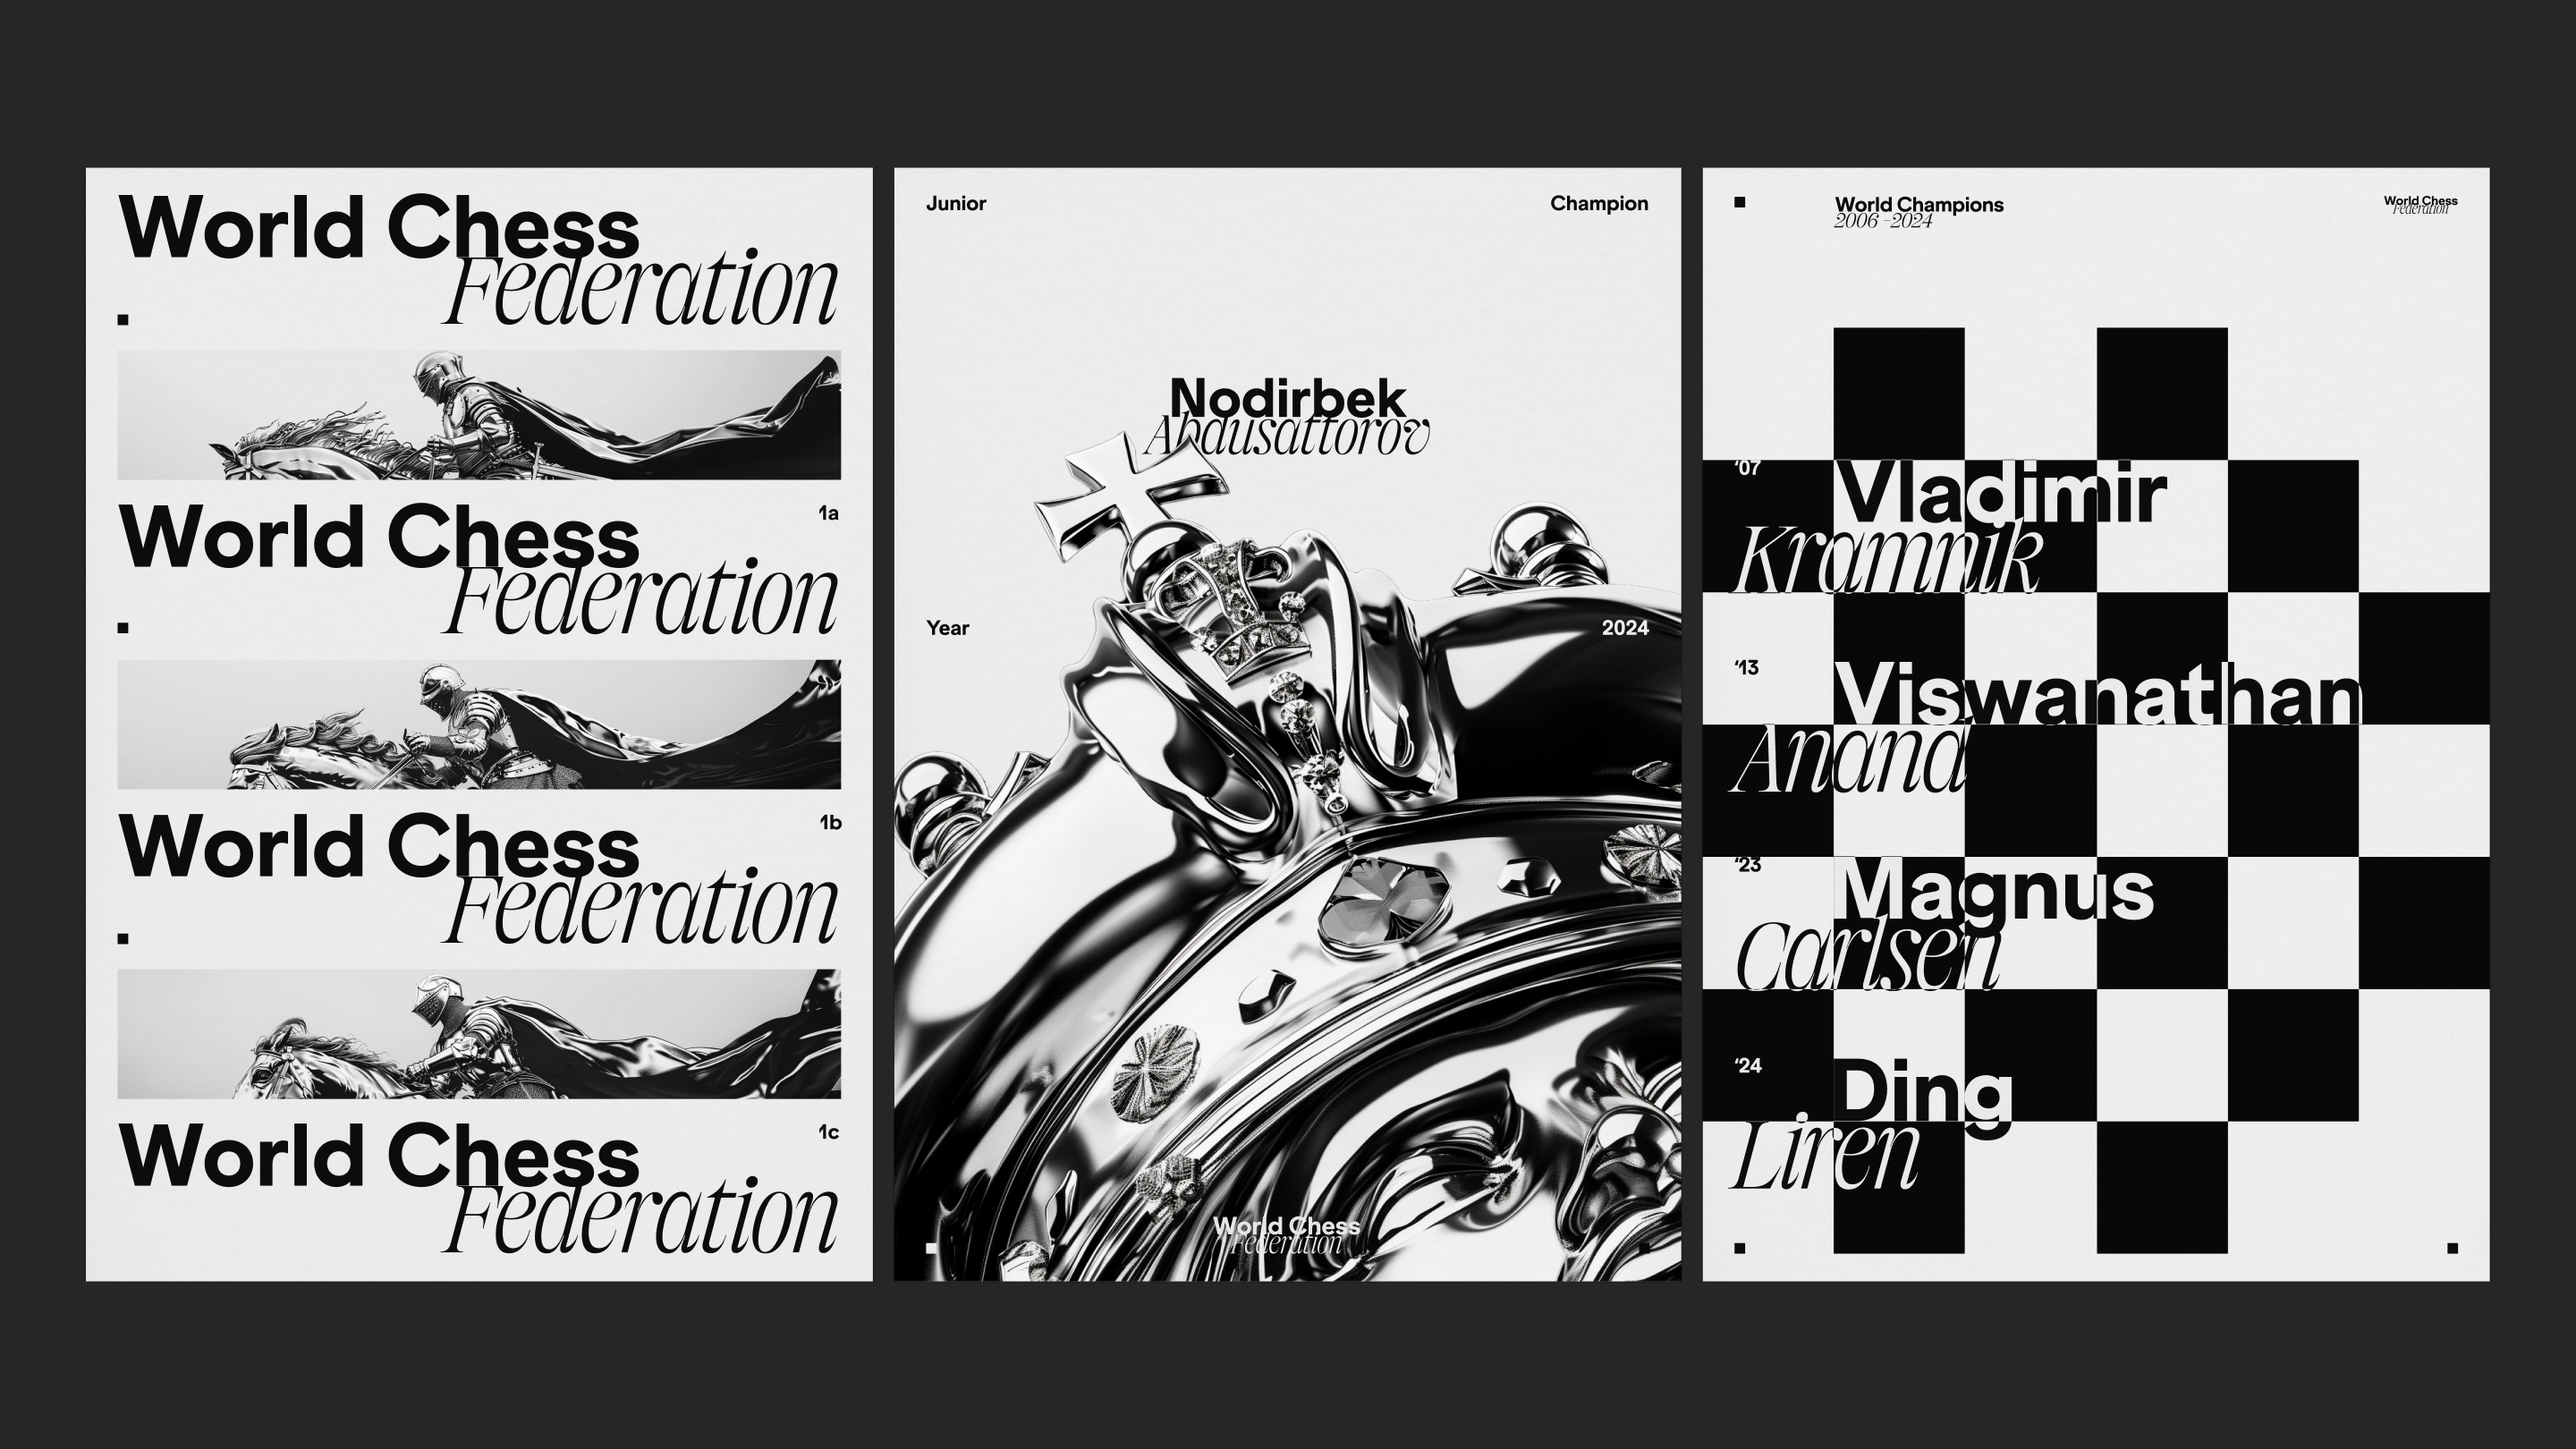
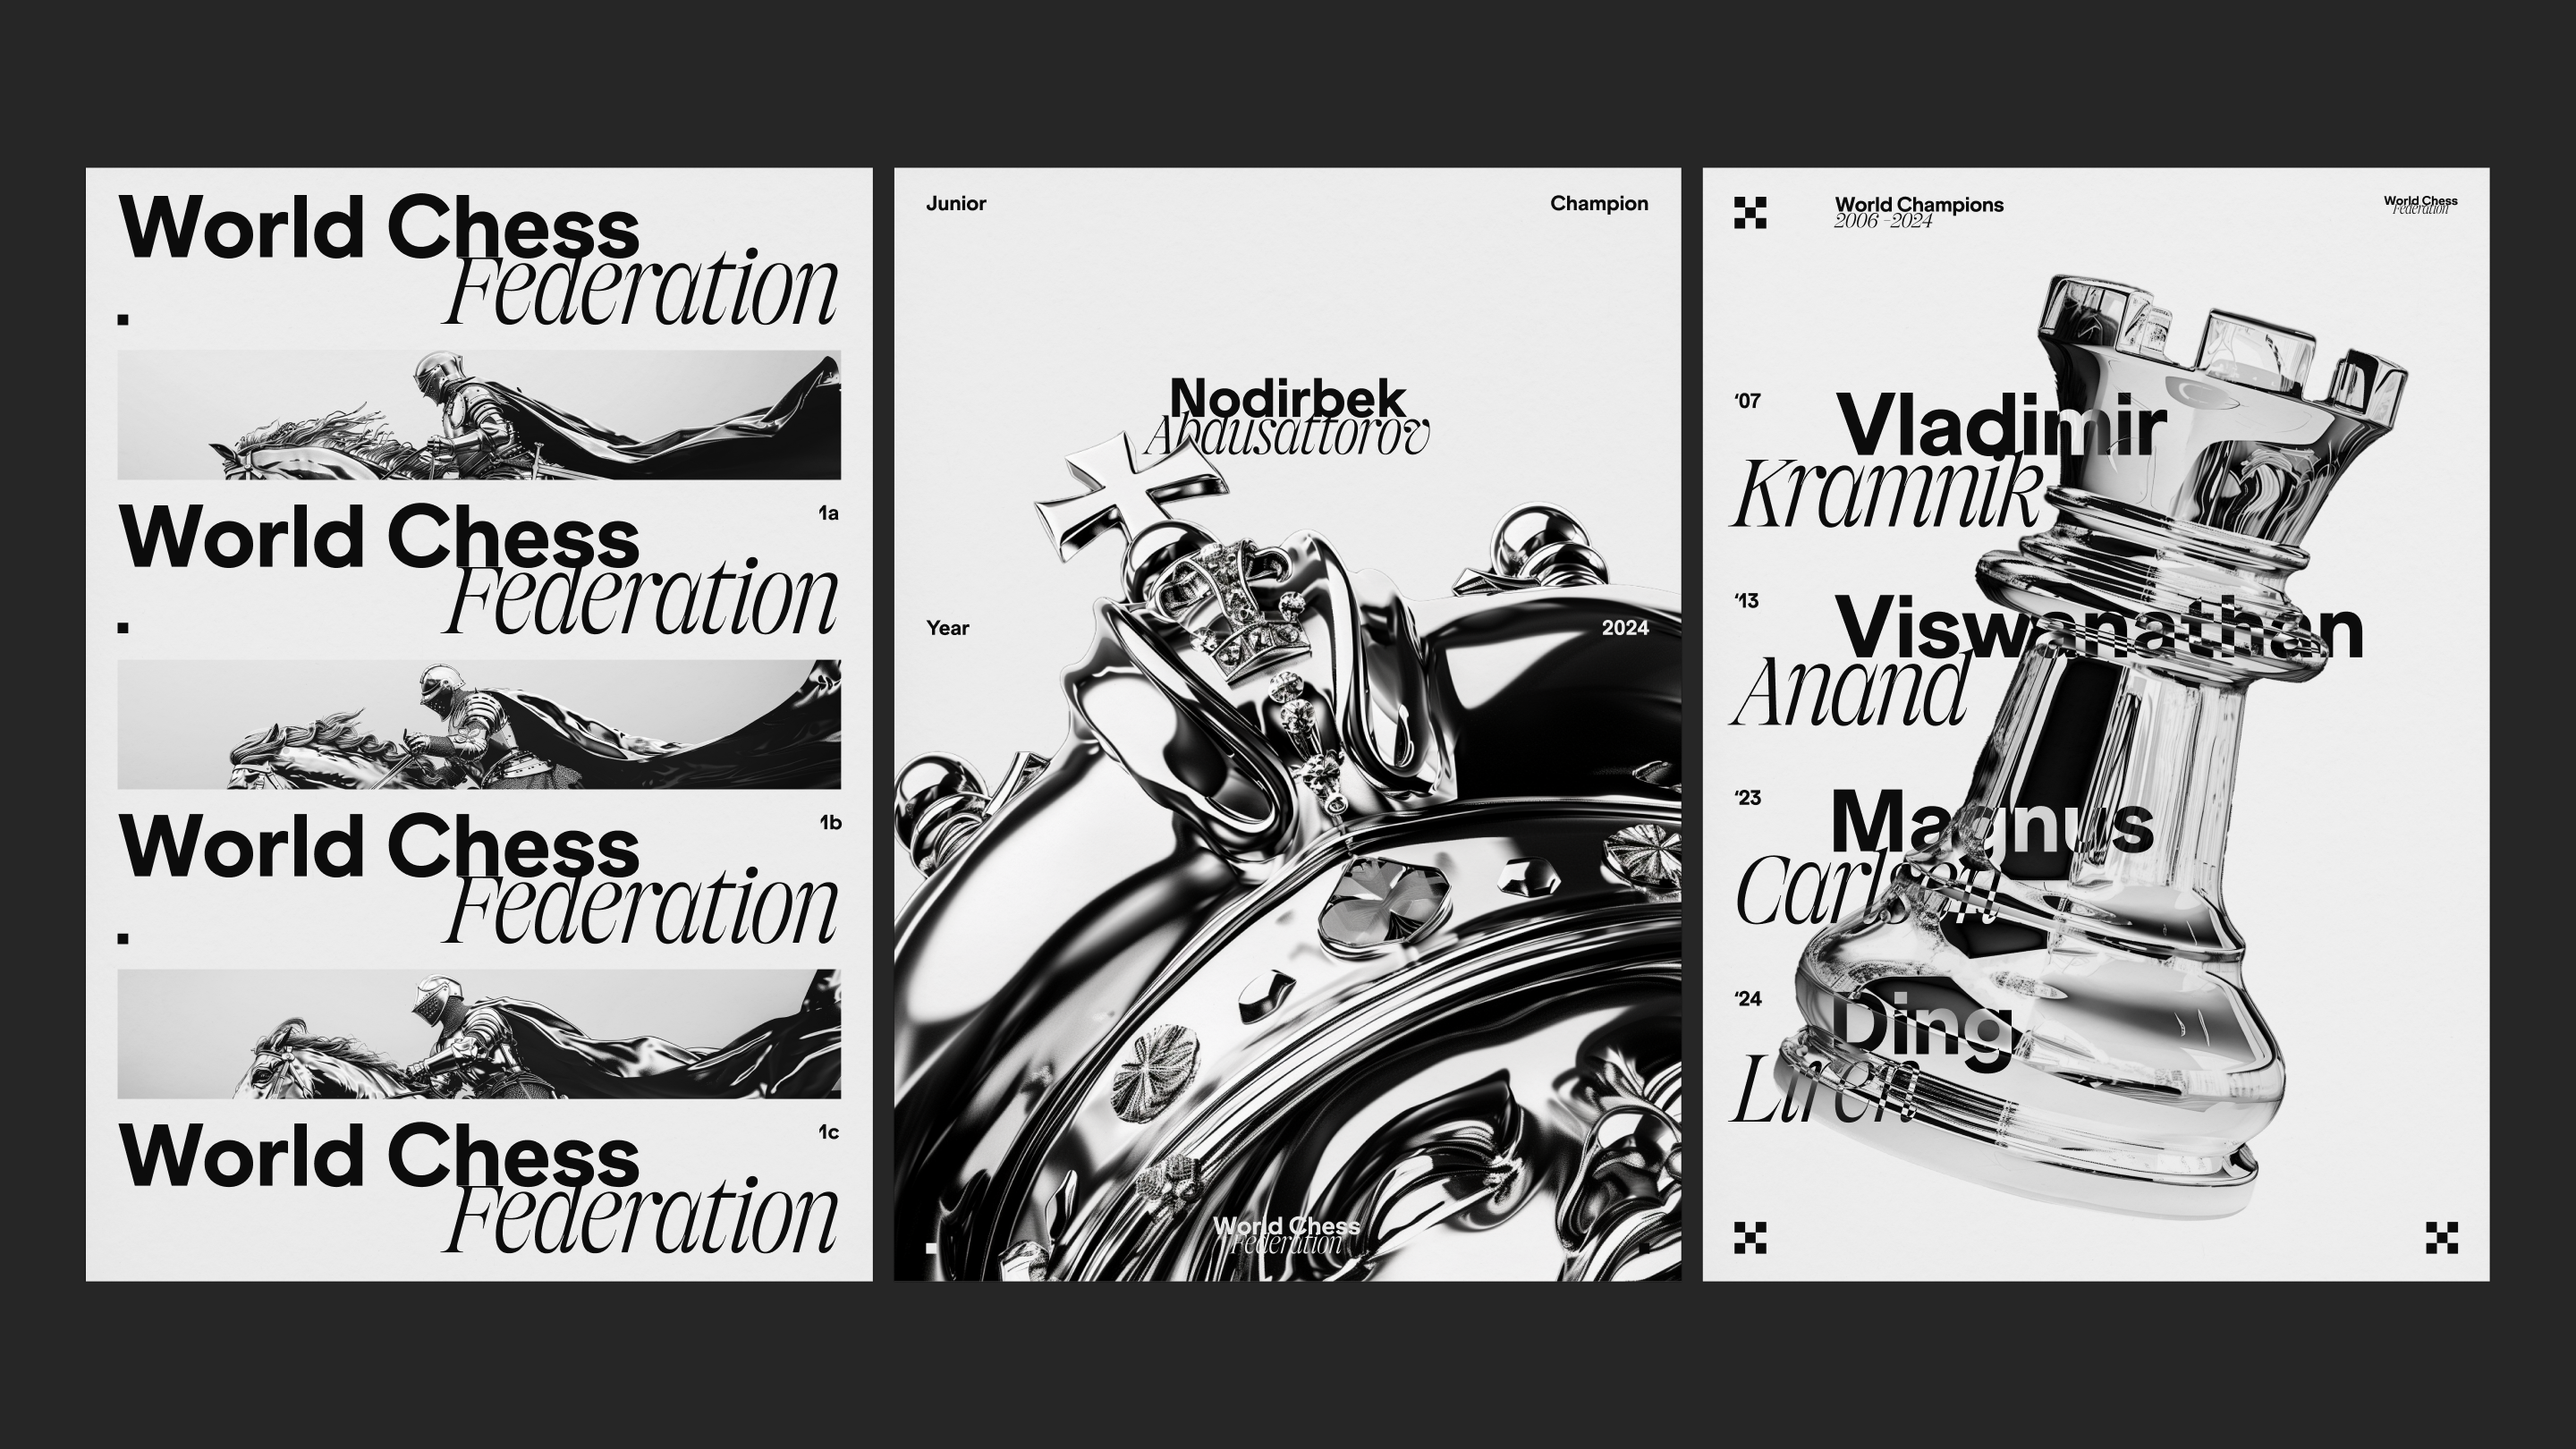
worldchess6

Changed region(s): [[0.6562, 0.1852, 0.9688, 0.8642], [0.9375, 0.8333, 0.9688, 0.8642], [0.6562, 0.1235, 0.6875, 0.1543]]

diff --git a/html/worldchess.html b/html/worldchess.html
@@ -122,14 +122,6 @@
         <img src="../images/worldchess/worldchess4.png" alt="World Chess Cover">
       </div>
 
-      <div class= "mb-4">
-        <img src="../images/worldchess/worldchess1.png" alt="World Chess Cover">
-      </div>
-
-      <div class= "mb-4">
-        <img src="../images/worldchess/worldchess3.png" alt="World Chess Cover">
-      </div>
-
       <div class="grid grid-cols-2 gap-4 mb-4">
 
         <div class="col-start-1">
@@ -140,6 +132,18 @@
         <img src="../images/worldchess/worldchess5.2.png" alt="World Chess Cover">
       </div>
 
+      </div>
+
+      <div class= "mb-4">
+        <img src="../images/worldchess/worldchess1.png" alt="World Chess Cover">
+      </div>
+
+      <div class= "mb-4">
+        <img src="../images/worldchess/worldchess3.png" alt="World Chess Cover">
+      </div>
+
+      <div class= "mb-4">
+        <img src="../images/worldchess/worldchess6.png" alt="World Chess Cover">
       </div>
 
       <div>
